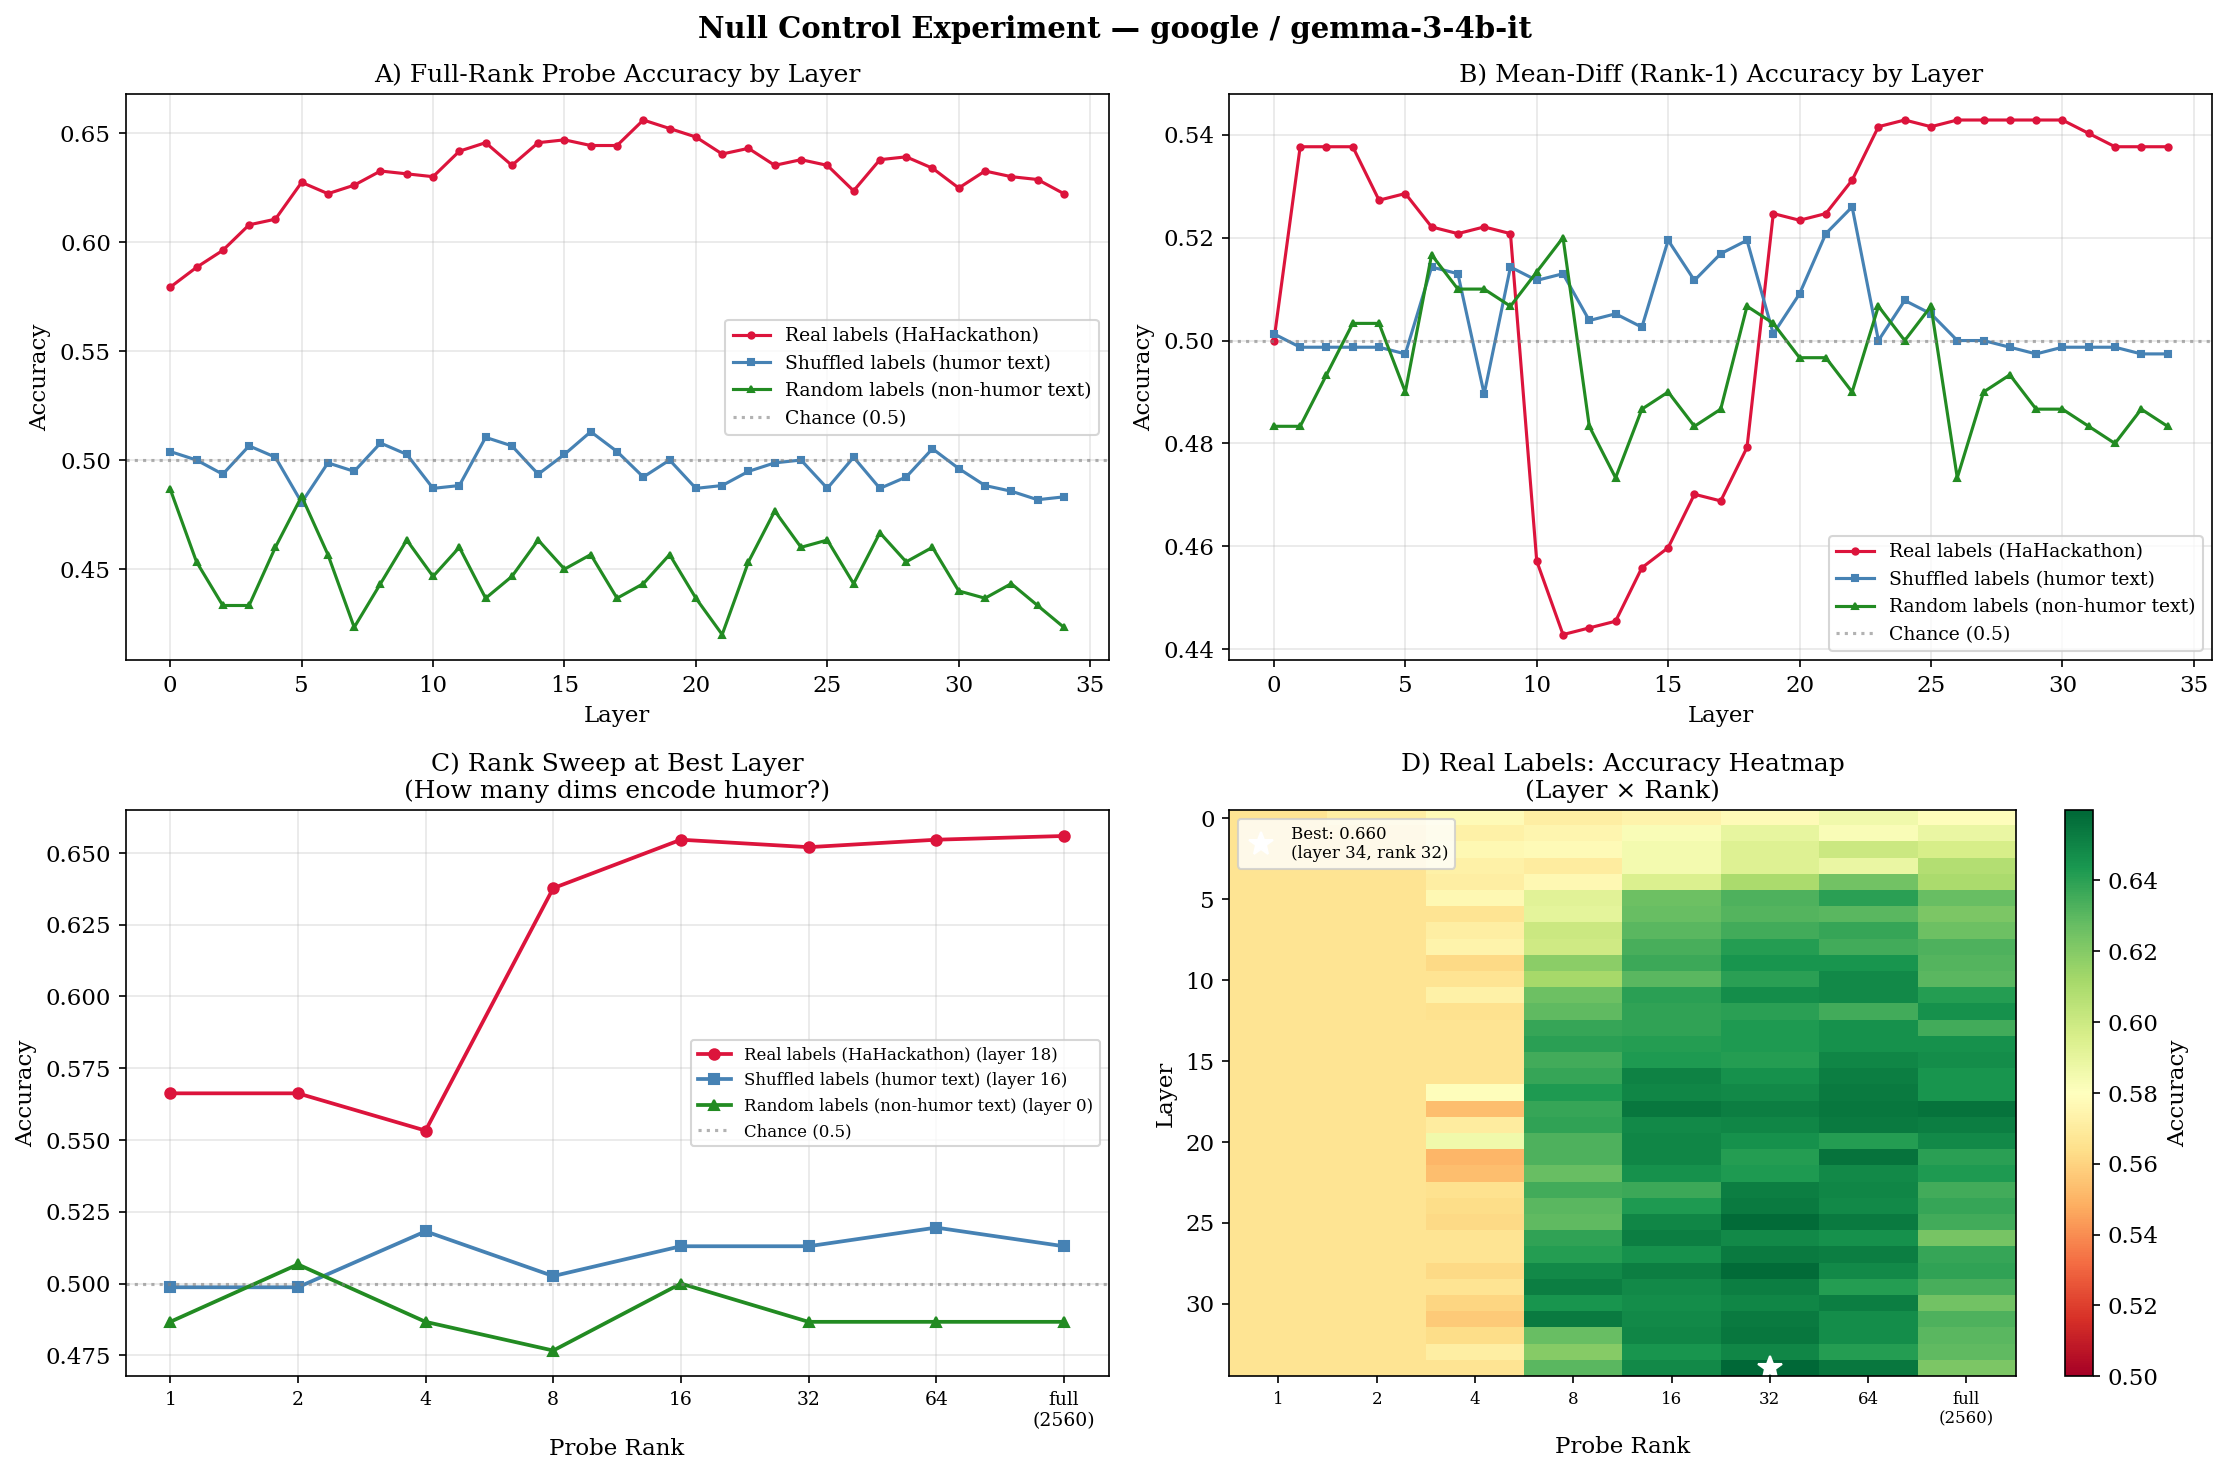
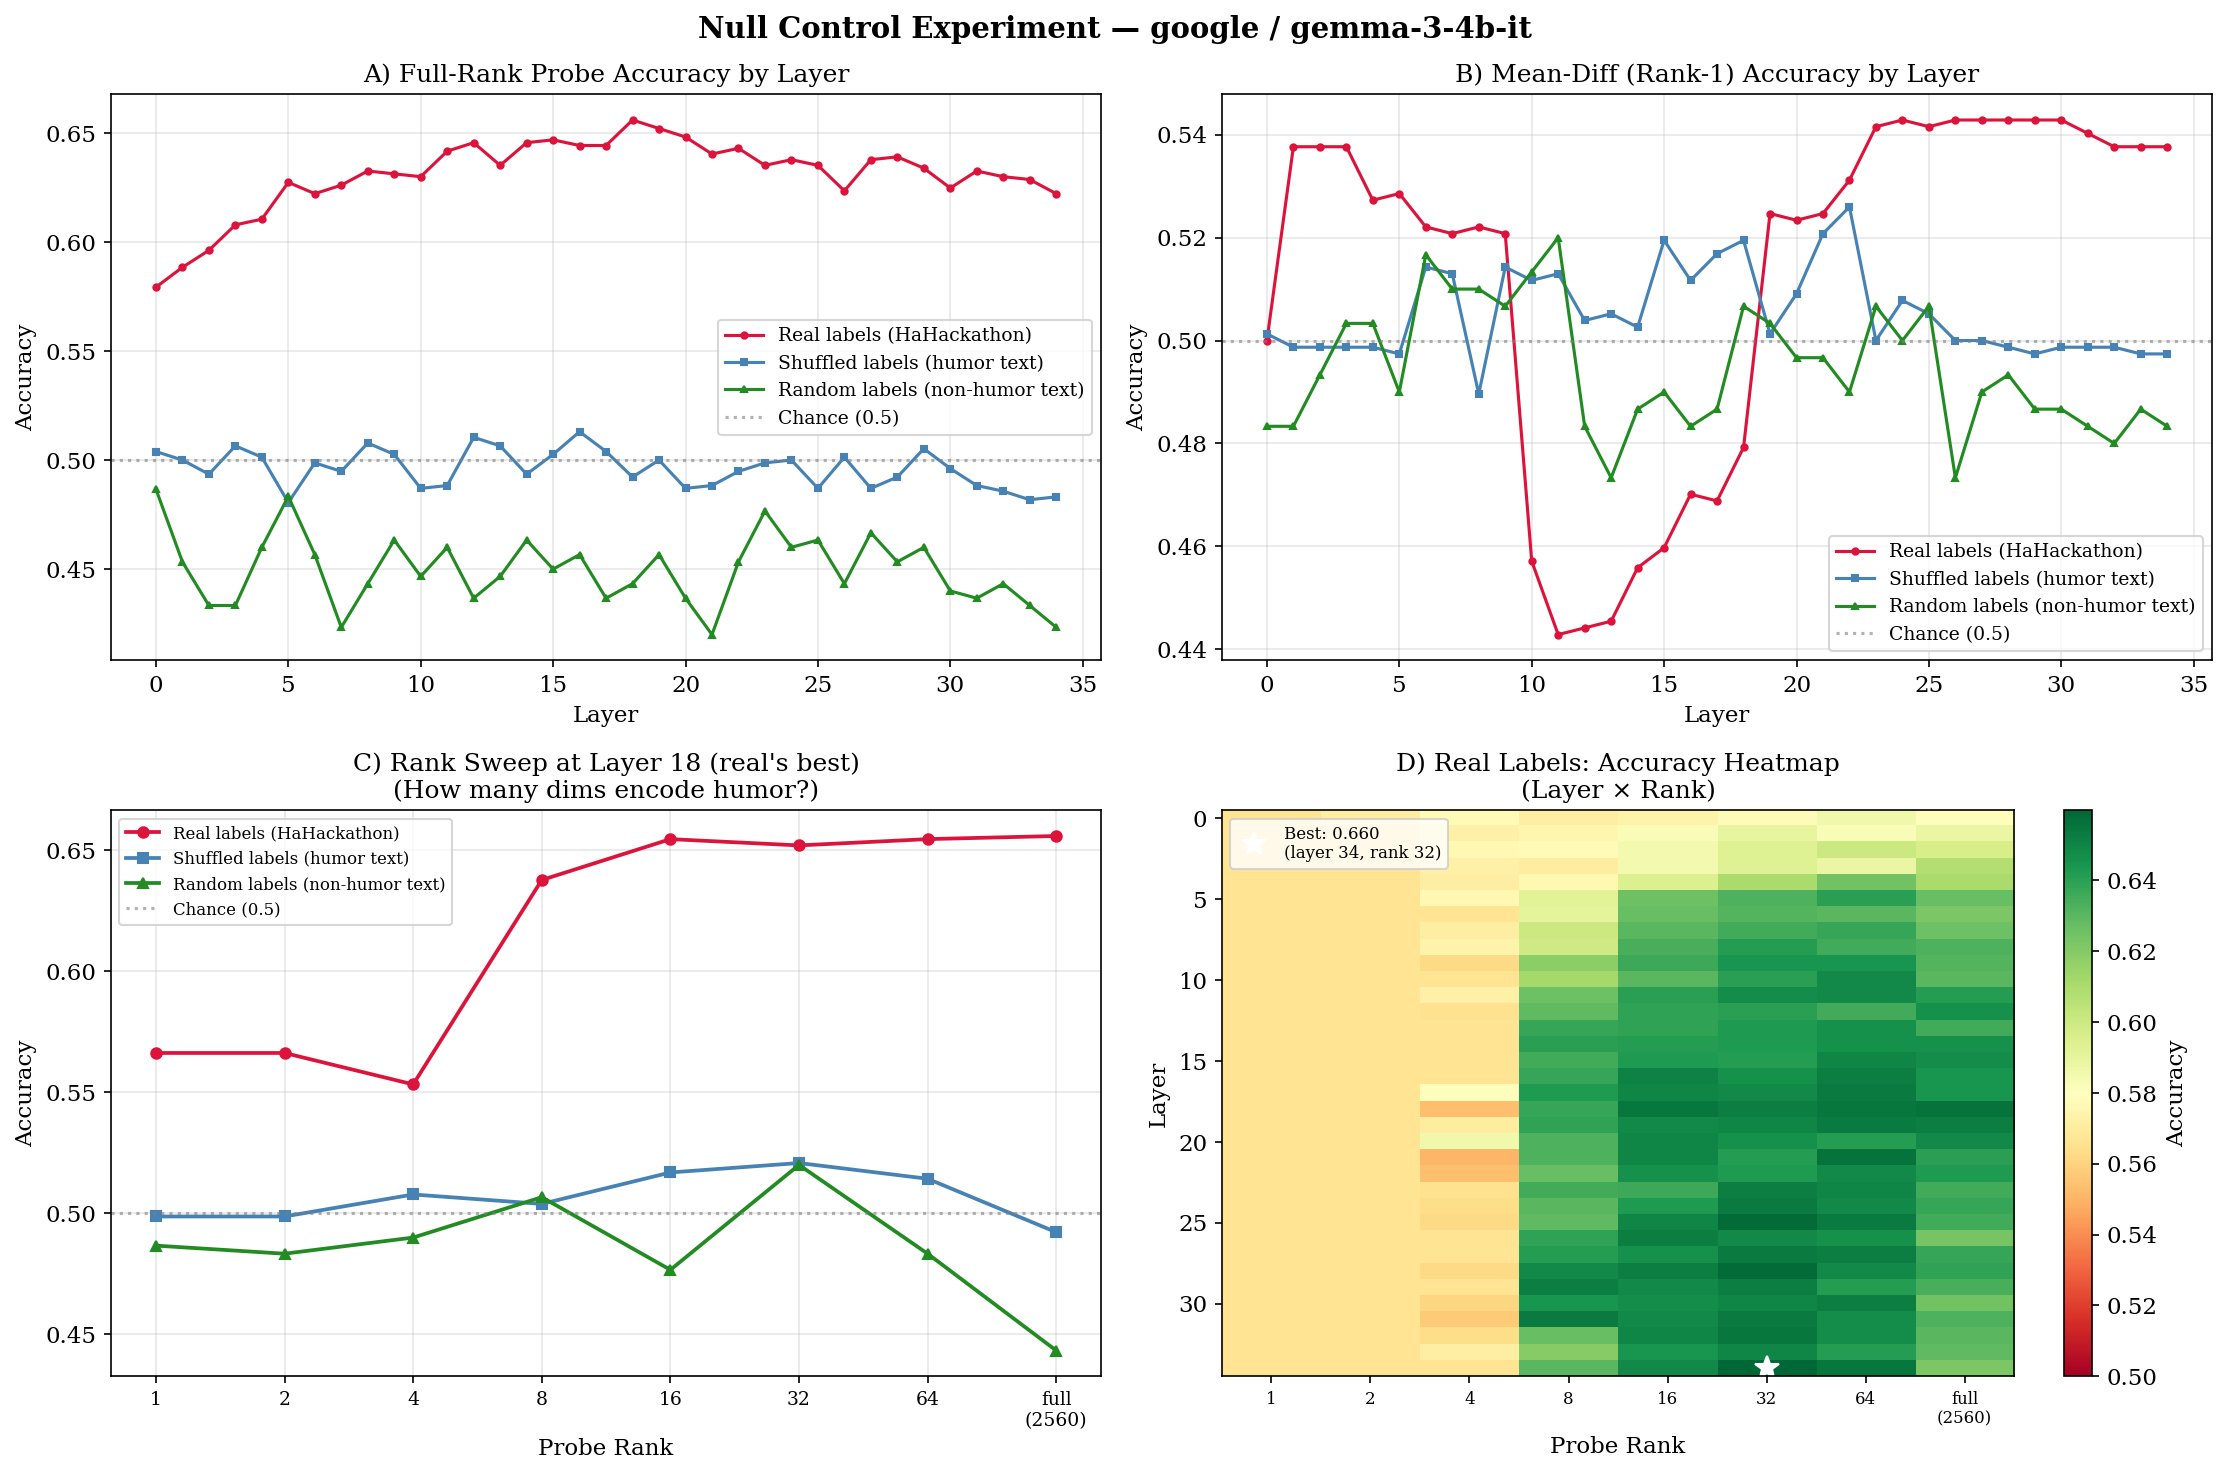
Hold layer constant when comparing rank sweep

diff --git a/src/visualize_null_control.py b/src/visualize_null_control.py
@@ -137,22 +137,21 @@ def plot_null_control(model_id: str, data: dict) -> Path:
     ax_md.grid(True, alpha=0.3)
 
     # ------------------------------------------------------------------ C --
-    # Rank sweep at best layer (per condition)
+    # Rank sweep pinned to real condition's best layer for all conditions
+    real_best_layer = best_full_rank_layer(conditions["real"]["probe_by_layer"])
     for cond_key, style in CONDITION_STYLE.items():
         if cond_key not in conditions:
             continue
         pbl = conditions[cond_key]["probe_by_layer"]
-        best_layer = best_full_rank_layer(pbl)
-        ranks, accs = get_rank_sweep_at_layer(pbl, best_layer)
+        ranks, accs = get_rank_sweep_at_layer(pbl, real_best_layer)
 
-        # x positions: log2 of rank, with full-rank placed at rank 64*2 for spacing
         hidden = data["hidden_size"]
         x_labels = [str(r) if r != hidden else f"full\n({hidden})" for r in ranks]
         x_pos = list(range(len(ranks)))
 
         ax_rank.plot(x_pos, accs,
                      color=style["color"], marker=style["marker"],
-                     label=f"{style['label']} (layer {best_layer})",
+                     label=style["label"],
                      markersize=5, linewidth=1.8)
 
     ax_rank.axhline(0.5, color="gray", linestyle=":", alpha=0.6, label="Chance (0.5)")
@@ -160,7 +159,7 @@ def plot_null_control(model_id: str, data: dict) -> Path:
     ax_rank.set_xticklabels(x_labels, fontsize=9)
     ax_rank.set_xlabel("Probe Rank")
     ax_rank.set_ylabel("Accuracy")
-    ax_rank.set_title("C) Rank Sweep at Best Layer\n(How many dims encode humor?)")
+    ax_rank.set_title(f"C) Rank Sweep at Layer {real_best_layer} (real's best)\n(How many dims encode humor?)")
     ax_rank.legend(fontsize=8)
     ax_rank.grid(True, alpha=0.3)
 
